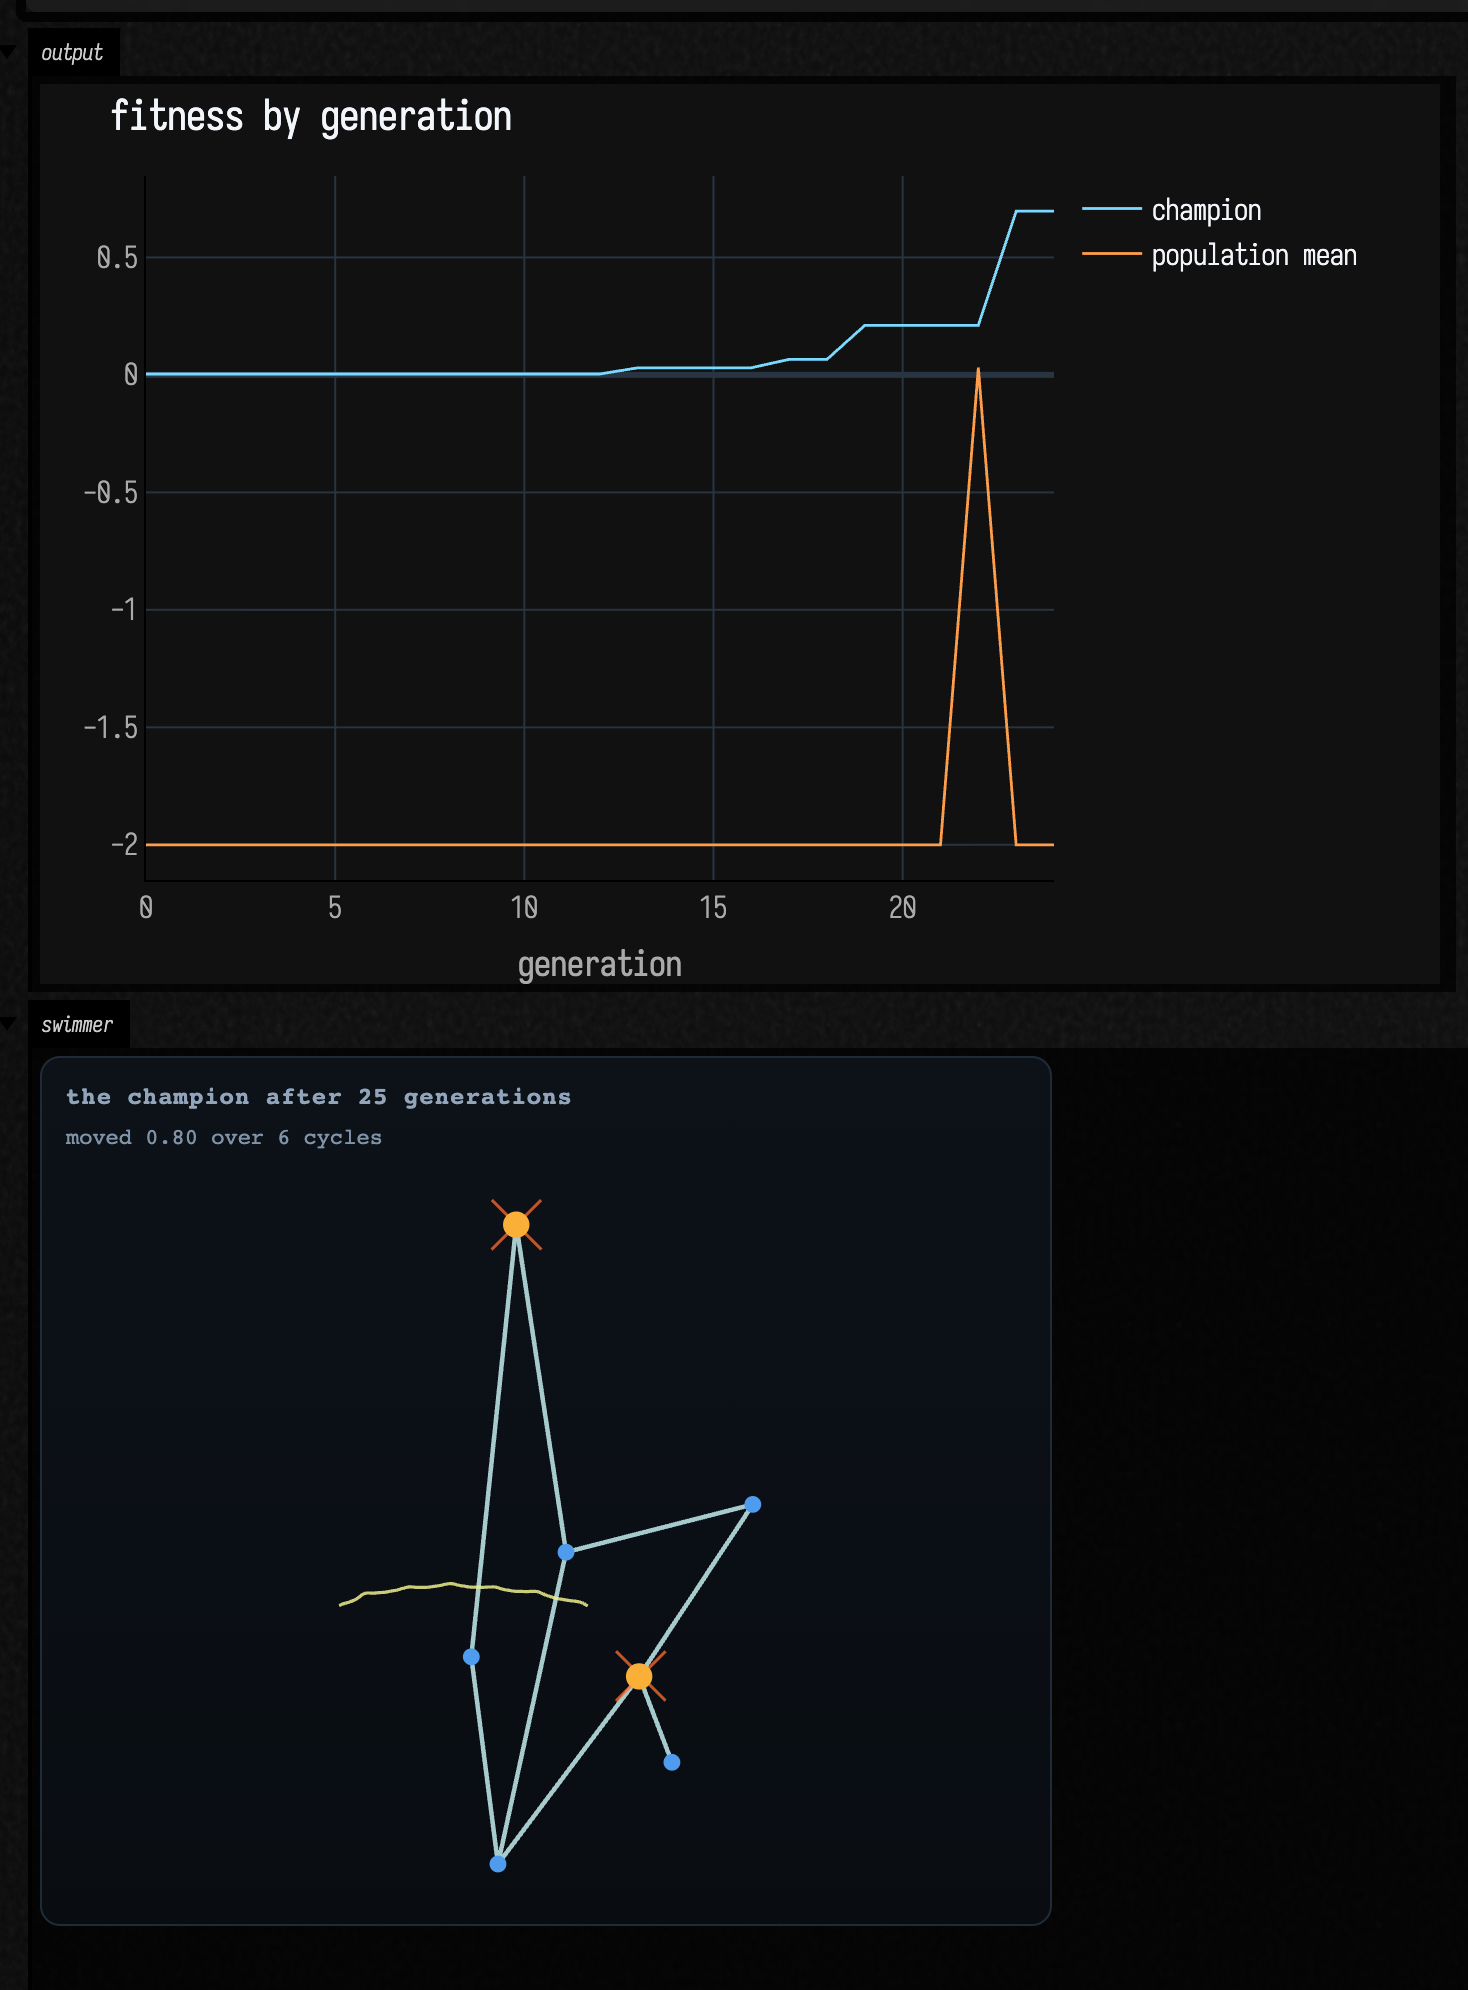
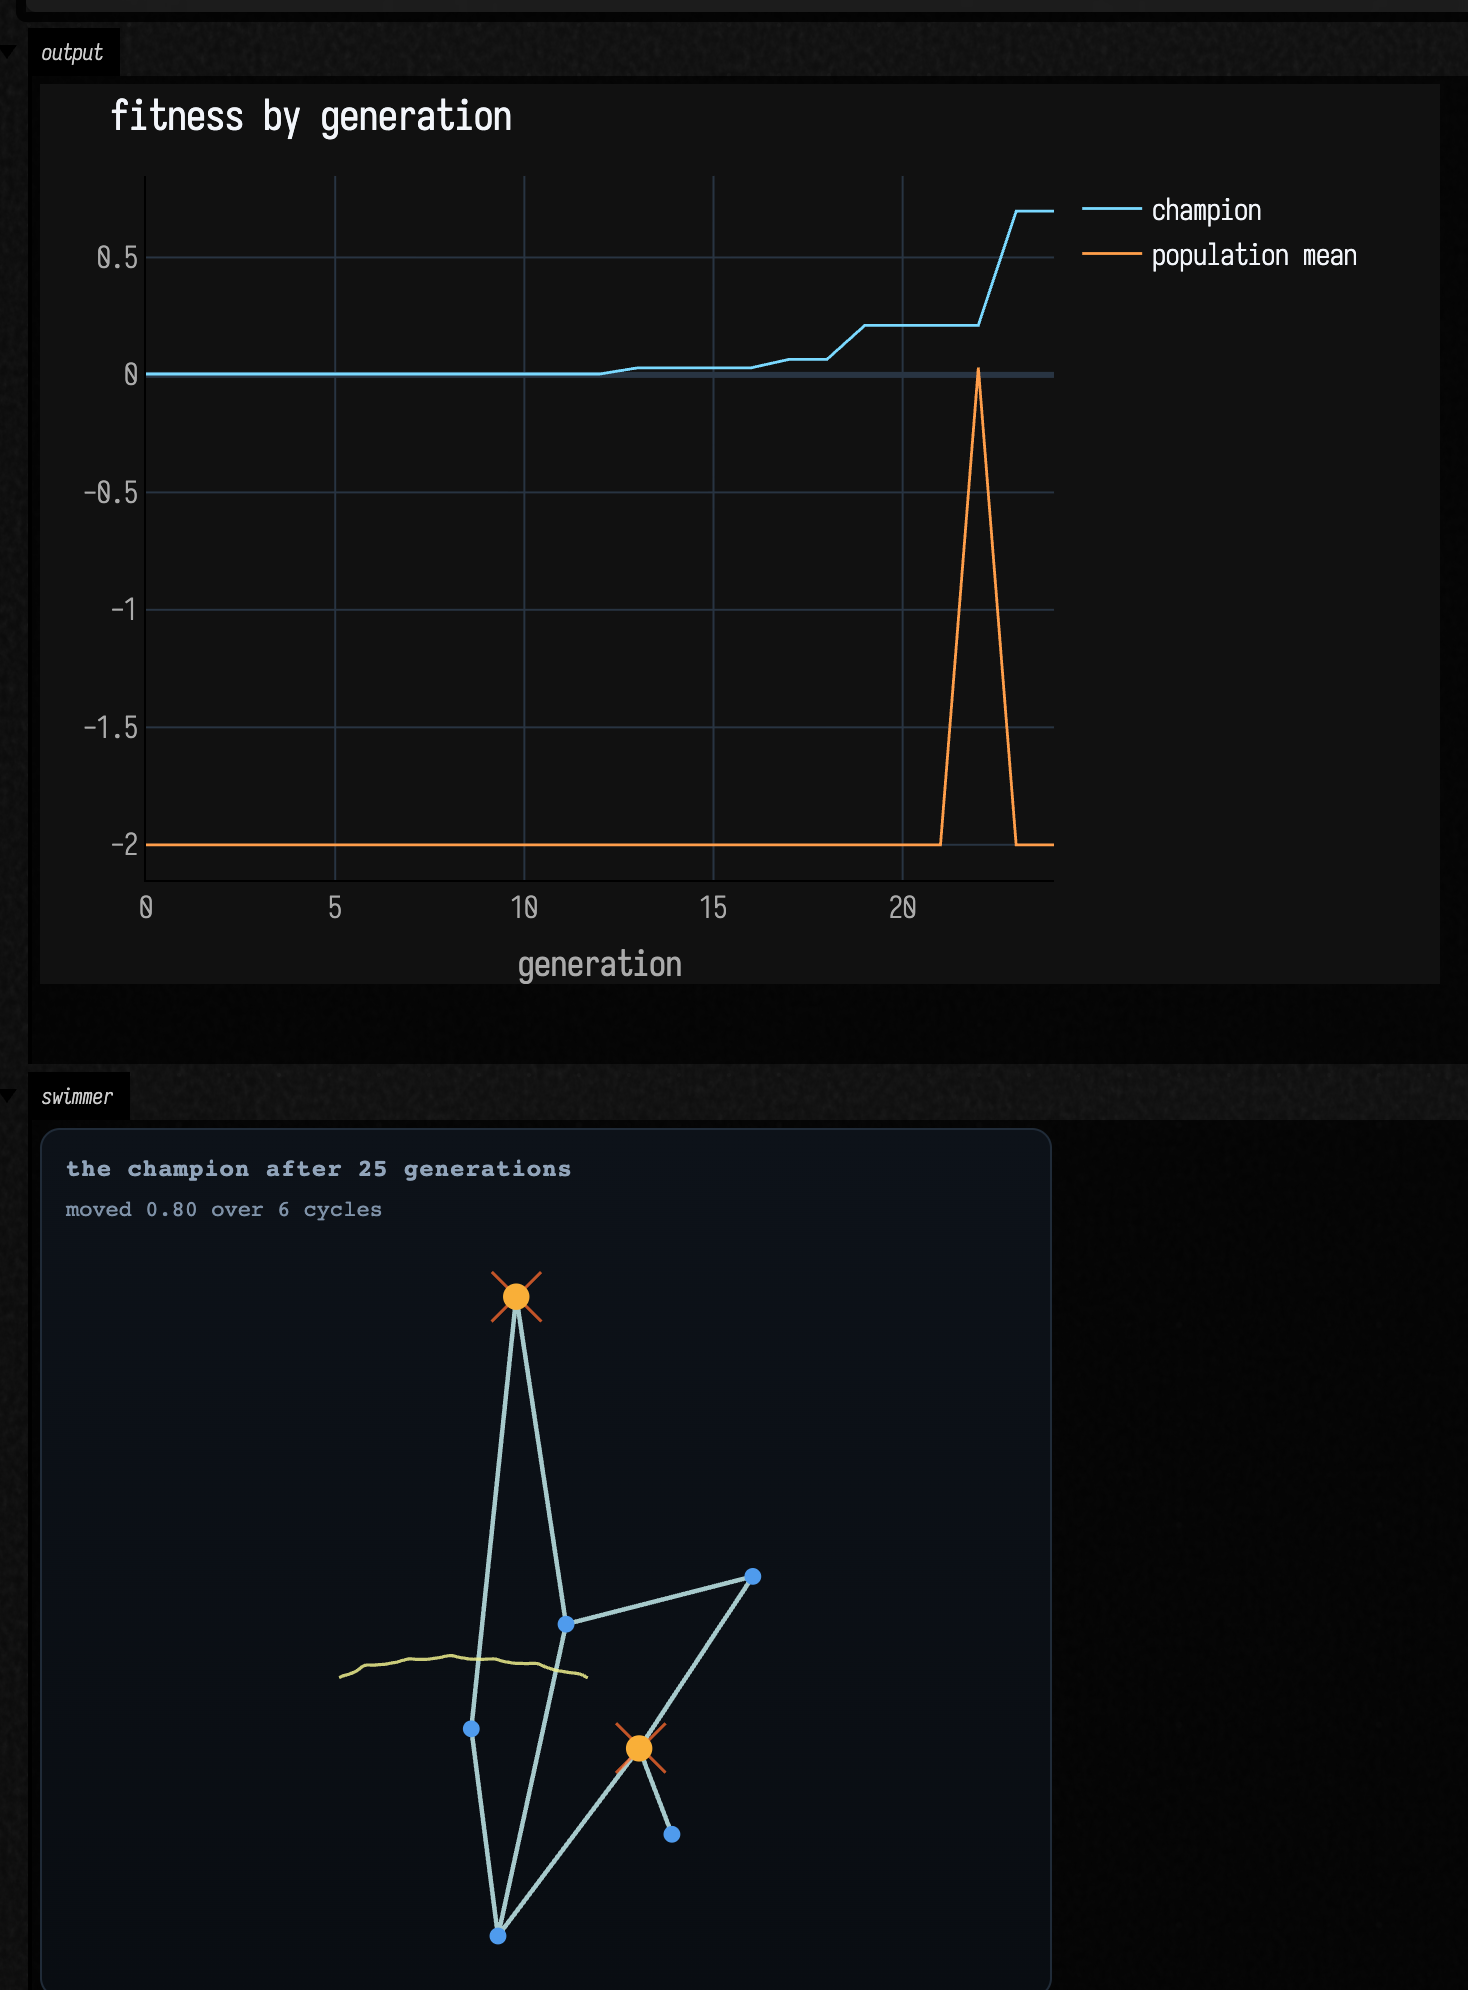
Recapture and inspect revised evolving-creature documentation

Changed region(s): [[0.0307, 0.4985, 0.5211, 0.997]]

diff --git a/dev_docs/agents/box_code_docs_catchup/capture.py b/dev_docs/agents/box_code_docs_catchup/capture.py
@@ -6,7 +6,7 @@ import subprocess
 
 ROOT=Path(__file__).resolve().parents[3]
 parser=argparse.ArgumentParser();parser.add_argument('--port',type=int,default=9743);args=parser.parse_args()
-env=dict(os.environ,FIELD_DOCS_RUNNER_MODE='incremental',FIELD_DOCS_RUNNER_PORT=str(args.port))
+env=dict(os.environ,FIELD_DOCS_RUNNER_MODE='always',FIELD_DOCS_RUNNER_PORT=str(args.port))
 paint=ROOT/'build/field-paint/release/libfield_paint_jvm.dylib'
 if paint.is_file():env.setdefault('AFIELD_PAINT_LIBRARY',str(paint))
 # Prefer the caller's configured Node; on Marc's host the bundled runtime is independent of Homebrew.

diff --git a/dev_docs/agents/box_code_docs_catchup/README.md b/dev_docs/agents/box_code_docs_catchup/README.md
@@ -41,6 +41,13 @@ The detailed command receipts and failed harness diagnostics remain under
 `build/box-code-revision/docs-catchup/`. Harness repairs addressed fragment history, CLI syntax,
 HTML escaping and unchanged-macro handling; they did not waive failures in the examples.
 
+## Fresh captures
+
+`capture-verification.json` records seven successful forced recaptures of the evolving-creatures
+page: five images and two recordings, all inspected. The normal runner reported zero failures.
+The capture harness uses `always` because incremental mode can reuse checked-in assets without
+a cache entry. Five assets reproduced exactly; the evolved-champion and live-worker images changed.
+
 ## Delivery
 
 Generated starting points must be refreshed from the authored transcripts. The final capture and
